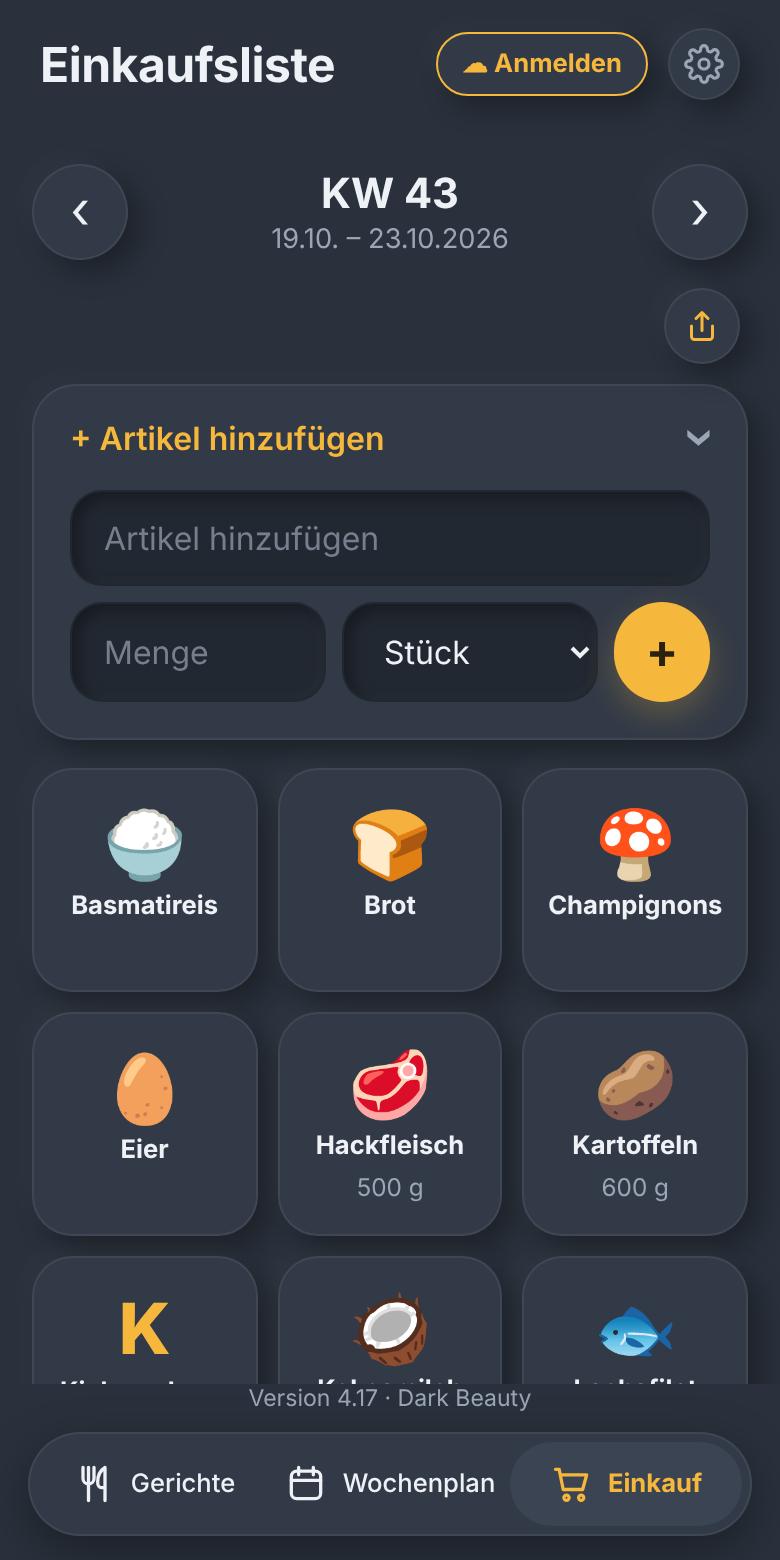
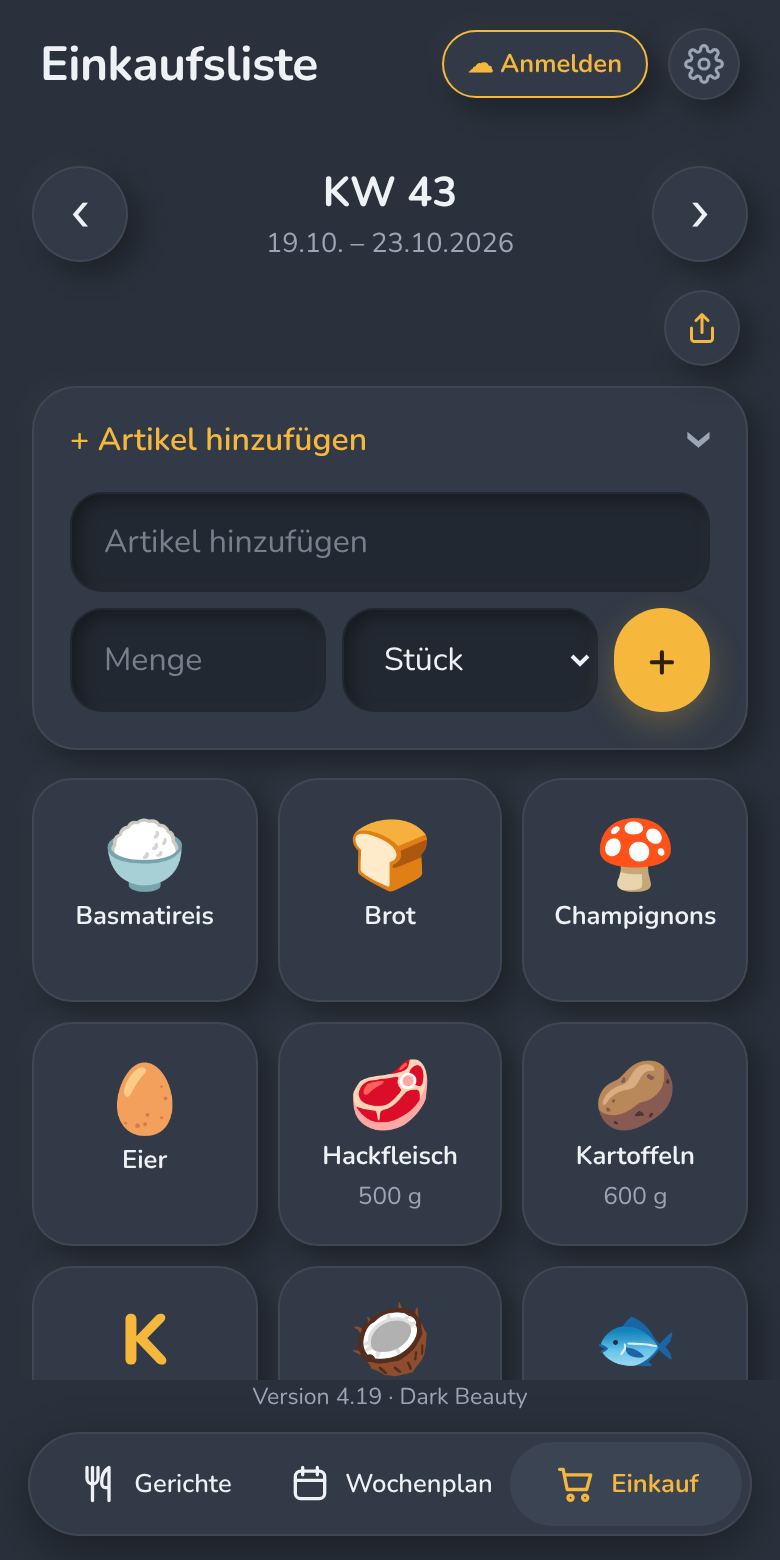
v4.19: Nunito als Schrift in allen Designs
Claude-Session: https://claude.ai/code/session_01JENwE74wMgTKySNLWYJAoh

diff --git a/style.css b/style.css
@@ -905,15 +905,14 @@ main { touch-action: pan-y; }
 }
 .posten .posten-von { flex: none; font-size: 0.68rem; font-weight: 600; color: var(--akzent); margin-top: -4px; }
 
-/* ===== Schrift Nunito für das Design Night Pastel ===== */
+/* ===== Schrift Nunito für alle Designs ===== */
 @font-face {
   font-family: "Nunito"; font-style: normal; font-weight: 200 1000; font-display: swap;
   src: url("fonts/nunito-latin.woff2") format("woff2");
 }
-:root[data-skin="nacht"] body,
-:root[data-skin="nacht"] button,
-:root[data-skin="nacht"] input,
-:root[data-skin="nacht"] select,
-:root[data-skin="nacht"] textarea {
+body, button, input, select, textarea {
   font-family: "Nunito", -apple-system, BlinkMacSystemFont, "Segoe UI", Roboto, sans-serif;
 }
+
+/* Pfeil-Zeichen (‹ ›) kommen in Nunito sehr klein heraus, deshalb hier die Systemschrift */
+.pfeil, .import-pfeil { font-family: -apple-system, BlinkMacSystemFont, "Segoe UI", Roboto, sans-serif; }

diff --git a/app.js b/app.js
@@ -2346,9 +2346,8 @@ async function planBildErzeugen(montag) {
   const BG = farbe("--bg", "#2a313c"), KARTE = farbe("--karte", "#323a47"), AKZENT = farbe("--akzent", "#f5b73c");
   const TEXT = farbe("--text", "#eef1f5"), LEISE = farbe("--text-leise", "#9aa5b5");
   const SPORT = farbe("--sport", "#4f9fe3"), AUF_SPORT = farbe("--auf-sport", "#ffffff");
-  const nunito = document.documentElement.dataset.skin === "nacht";
-  const SCHRIFT = (nunito ? '"Nunito", ' : "") + '-apple-system, BlinkMacSystemFont, "Segoe UI", Roboto, sans-serif';
-  if (nunito && document.fonts && document.fonts.load) {
+  const SCHRIFT = '"Nunito", -apple-system, BlinkMacSystemFont, "Segoe UI", Roboto, sans-serif';
+  if (document.fonts && document.fonts.load) {
     try { await Promise.all(["400 30px Nunito", "700 40px Nunito", "800 52px Nunito"].map(function (f) { return document.fonts.load(f); })); } catch (e) { /* dann eben Systemschrift */ }
   }
 

diff --git a/sw.js b/sw.js
@@ -2,7 +2,7 @@
 // Strategie: Wenn das Netz da ist, wird immer die neueste Version geladen.
 // Ohne Netz startet die App aus dem Zwischenspeicher (offline).
 // Bei Änderungen an der Dateiliste unten die Versionsnummer erhöhen.
-const VERSION = "essensplan-v74";
+const VERSION = "essensplan-v75";
 const DATEIEN = [
   "./",
   "index.html",

diff --git a/index.html b/index.html
@@ -66,7 +66,7 @@
     <section id="einkauf" class="ansicht"></section>
   </main>
 
-  <footer class="version">Version 4.18 · Dark Beauty</footer>
+  <footer class="version">Version 4.19 · Dark Beauty</footer>
 
   <nav>
     <button class="aktiv" data-ziel="gerichte" data-titel="Gerichte">
